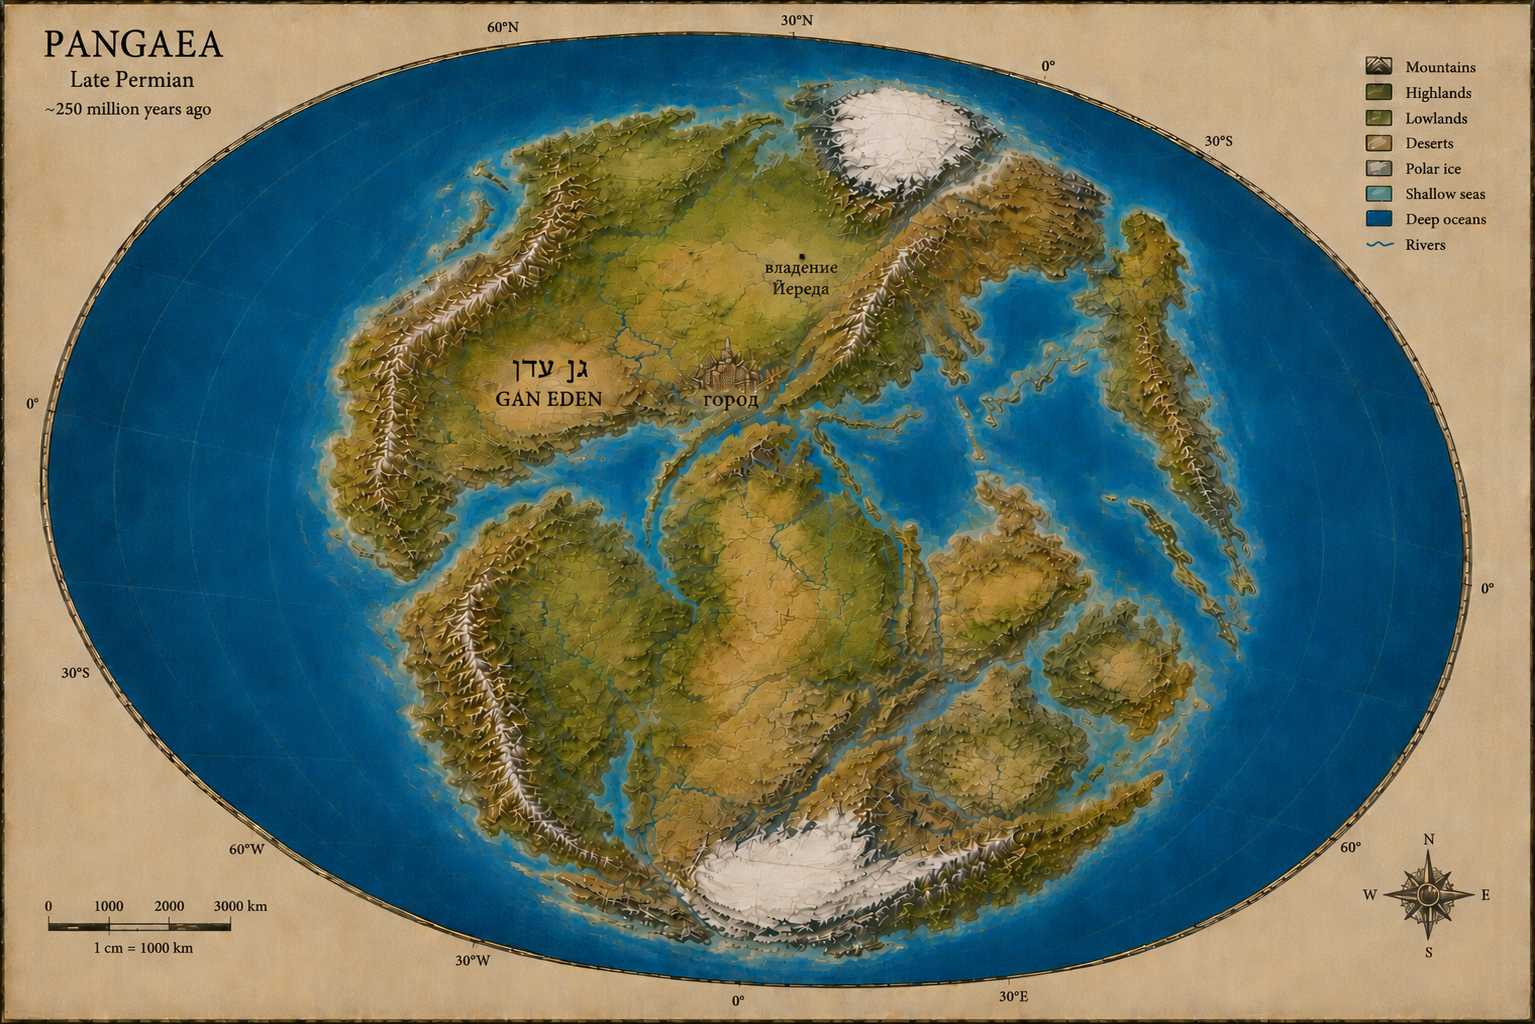
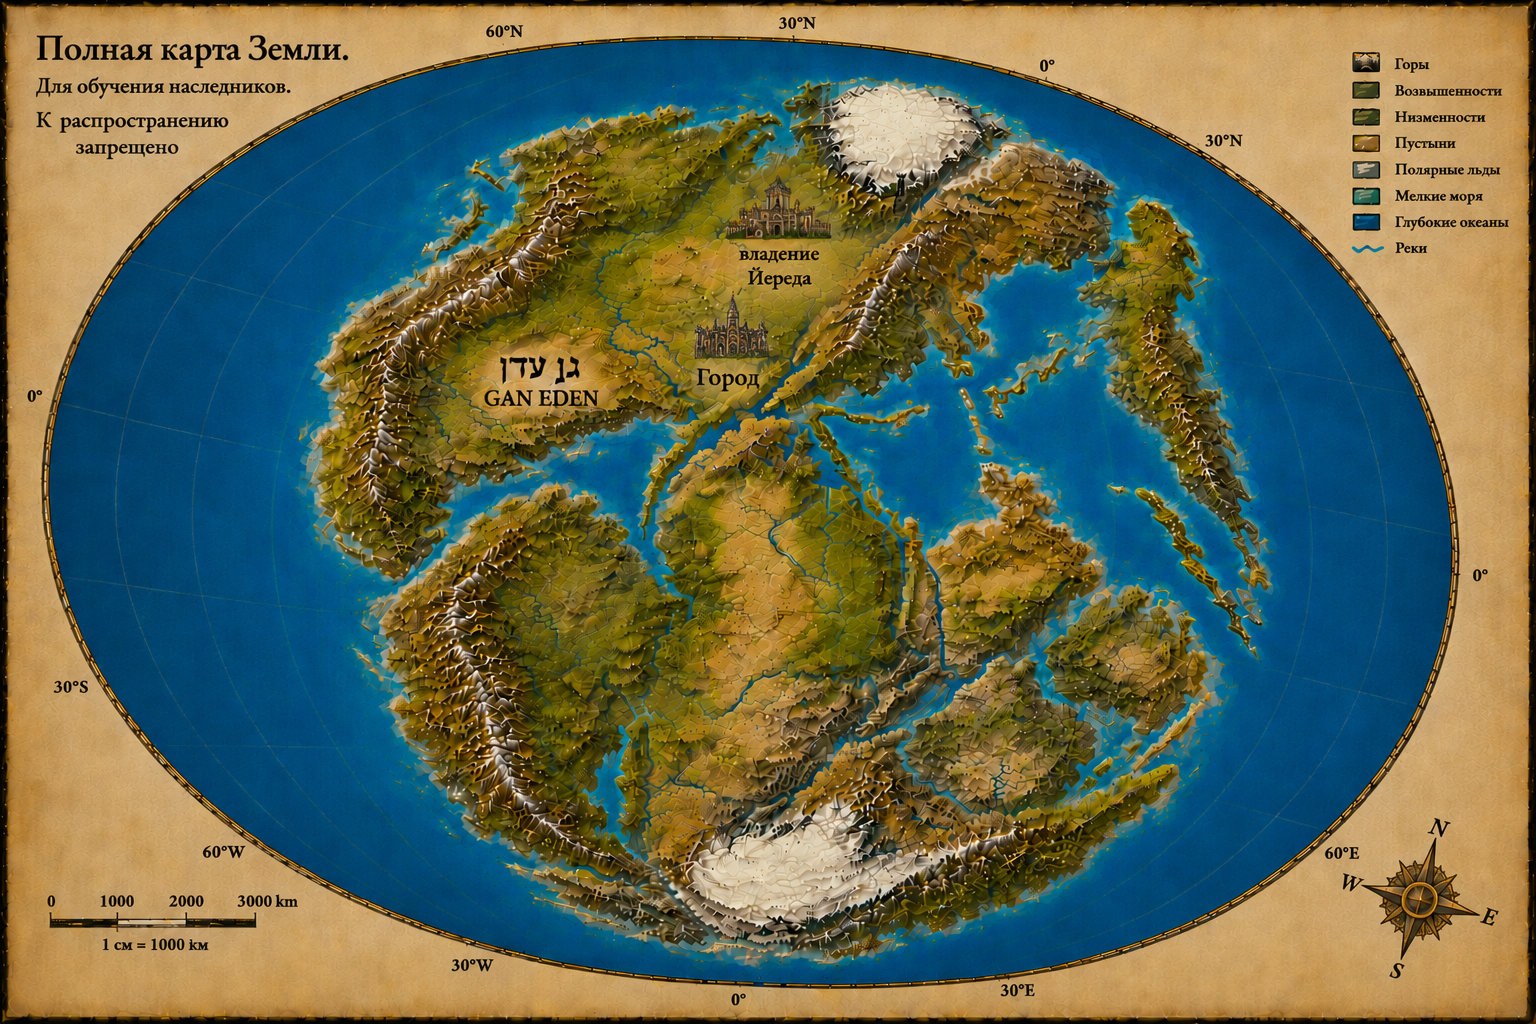
Update museum city tile

diff --git a/museum/city.html b/museum/city.html
@@ -1,0 +1,31 @@
+<!DOCTYPE html>
+<html lang="ru">
+<head>
+<link rel="stylesheet" href="../css/styles.css">
+<meta charset="UTF-8">
+<meta name="viewport" content="width=device-width, initial-scale=1.0">
+<title>Город | Музей | За миллион лет до</title>
+<meta name="description" content="Экспонат музея романа &#171;За миллион лет до&#187;: Город.">
+<link rel="canonical" href="https://srg4snn-gif.github.io/za-million-let-do/museum/city.html">
+<link rel="icon" type="image/png" href="../favicon.png">
+</head>
+<body>
+    <header class="top-nav" data-shared-menu></header>
+    <main class="exhibit-page">
+        <section class="museum-archive">
+            <h1>Город</h1>
+            <div class="exhibit-layout">
+                <figure class="exhibit-image">
+                    <img src="../img/museum-tile-v.png" alt="Город" loading="lazy" decoding="async">
+                </figure>
+                <div class="exhibit-description">
+                    <p>Город. В настоящее время в нем живут и работают мастера и их подручные. Сам основатель оставил город давно и скитается.</p>
+                </div>
+            </div>
+            <a class="museum-back-link" href="../museum.html">Вернуться в музей</a>
+        </section>
+    </main>
+    <footer class="site-footer"><a href="../impressum.html">Impressum</a><span>|</span><a href="../datenschutz.html">Datenschutz</a></footer>
+    <script src="../shared-menu.js"></script>
+</body>
+</html>

diff --git a/museum.html b/museum.html
@@ -66,8 +66,14 @@
                     </span>
                 </a>
 
-                <a class="museum-card" href="museum/blueblood-mark.html" aria-label="Знак синекровных">
-                    <span class="museum-card-image" data-mark="V"></span>
+                <a class="museum-card" href="museum/city.html" aria-label="Город">
+                    <span class="museum-card-image museum-card-image-photo">
+                        <img src="img/museum-tile-v.png" alt="" loading="lazy" decoding="async">
+                    </span>
+                    <span class="museum-card-body">
+                        <h2>Город</h2>
+                        <span class="museum-card-link">открыть экспонат</span>
+                    </span>
                 </a>
 
                 <a class="museum-card" href="museum/caravan-route.html" aria-label="Караванный путь">
